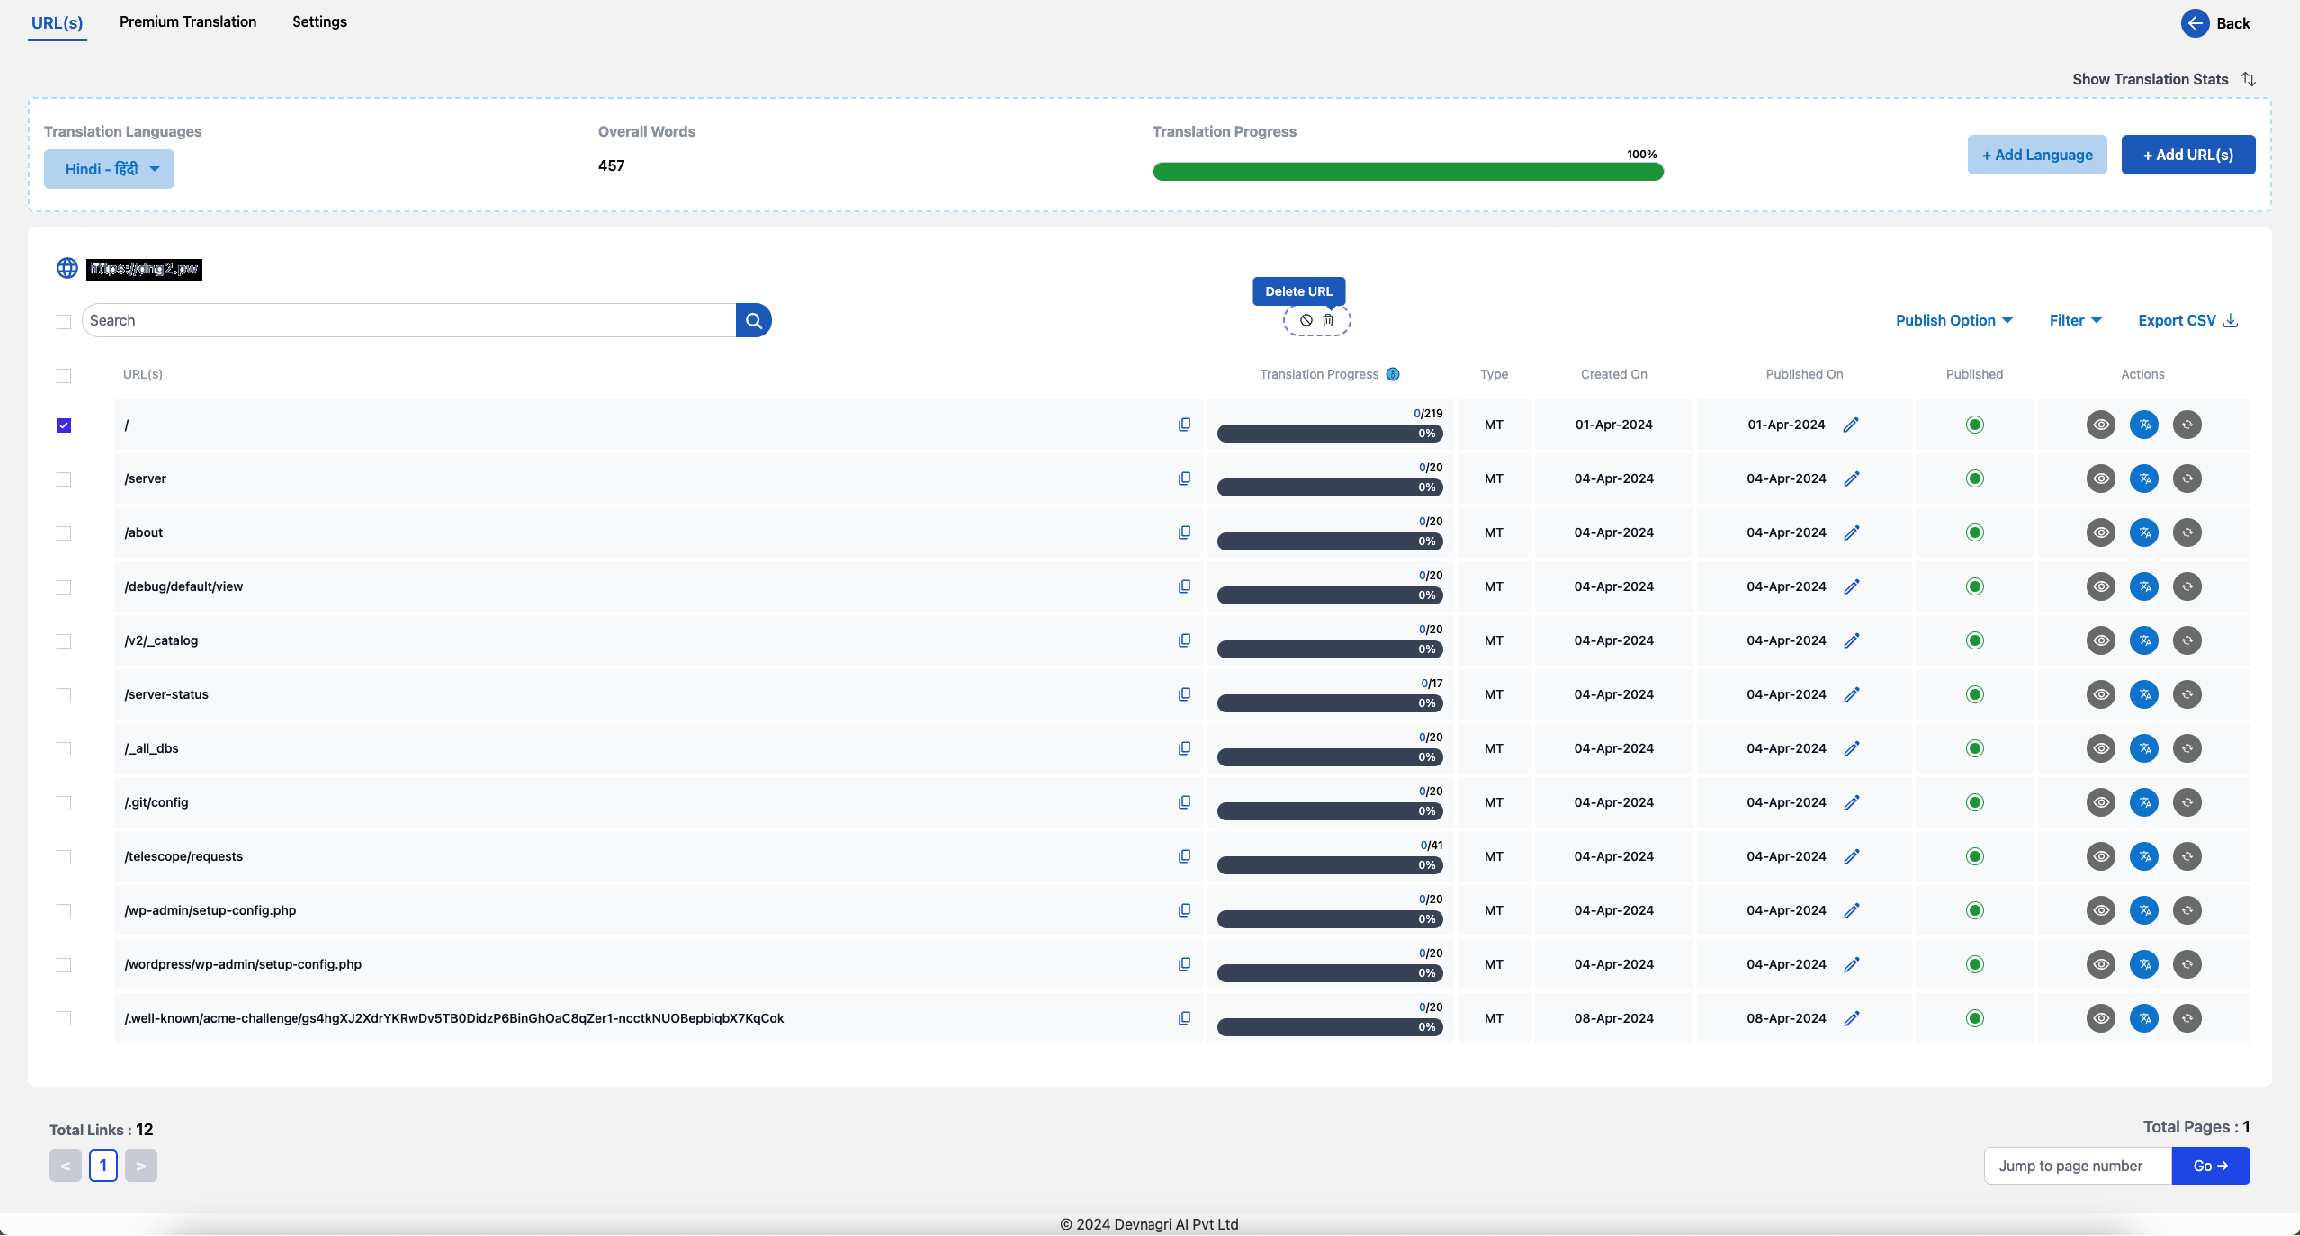
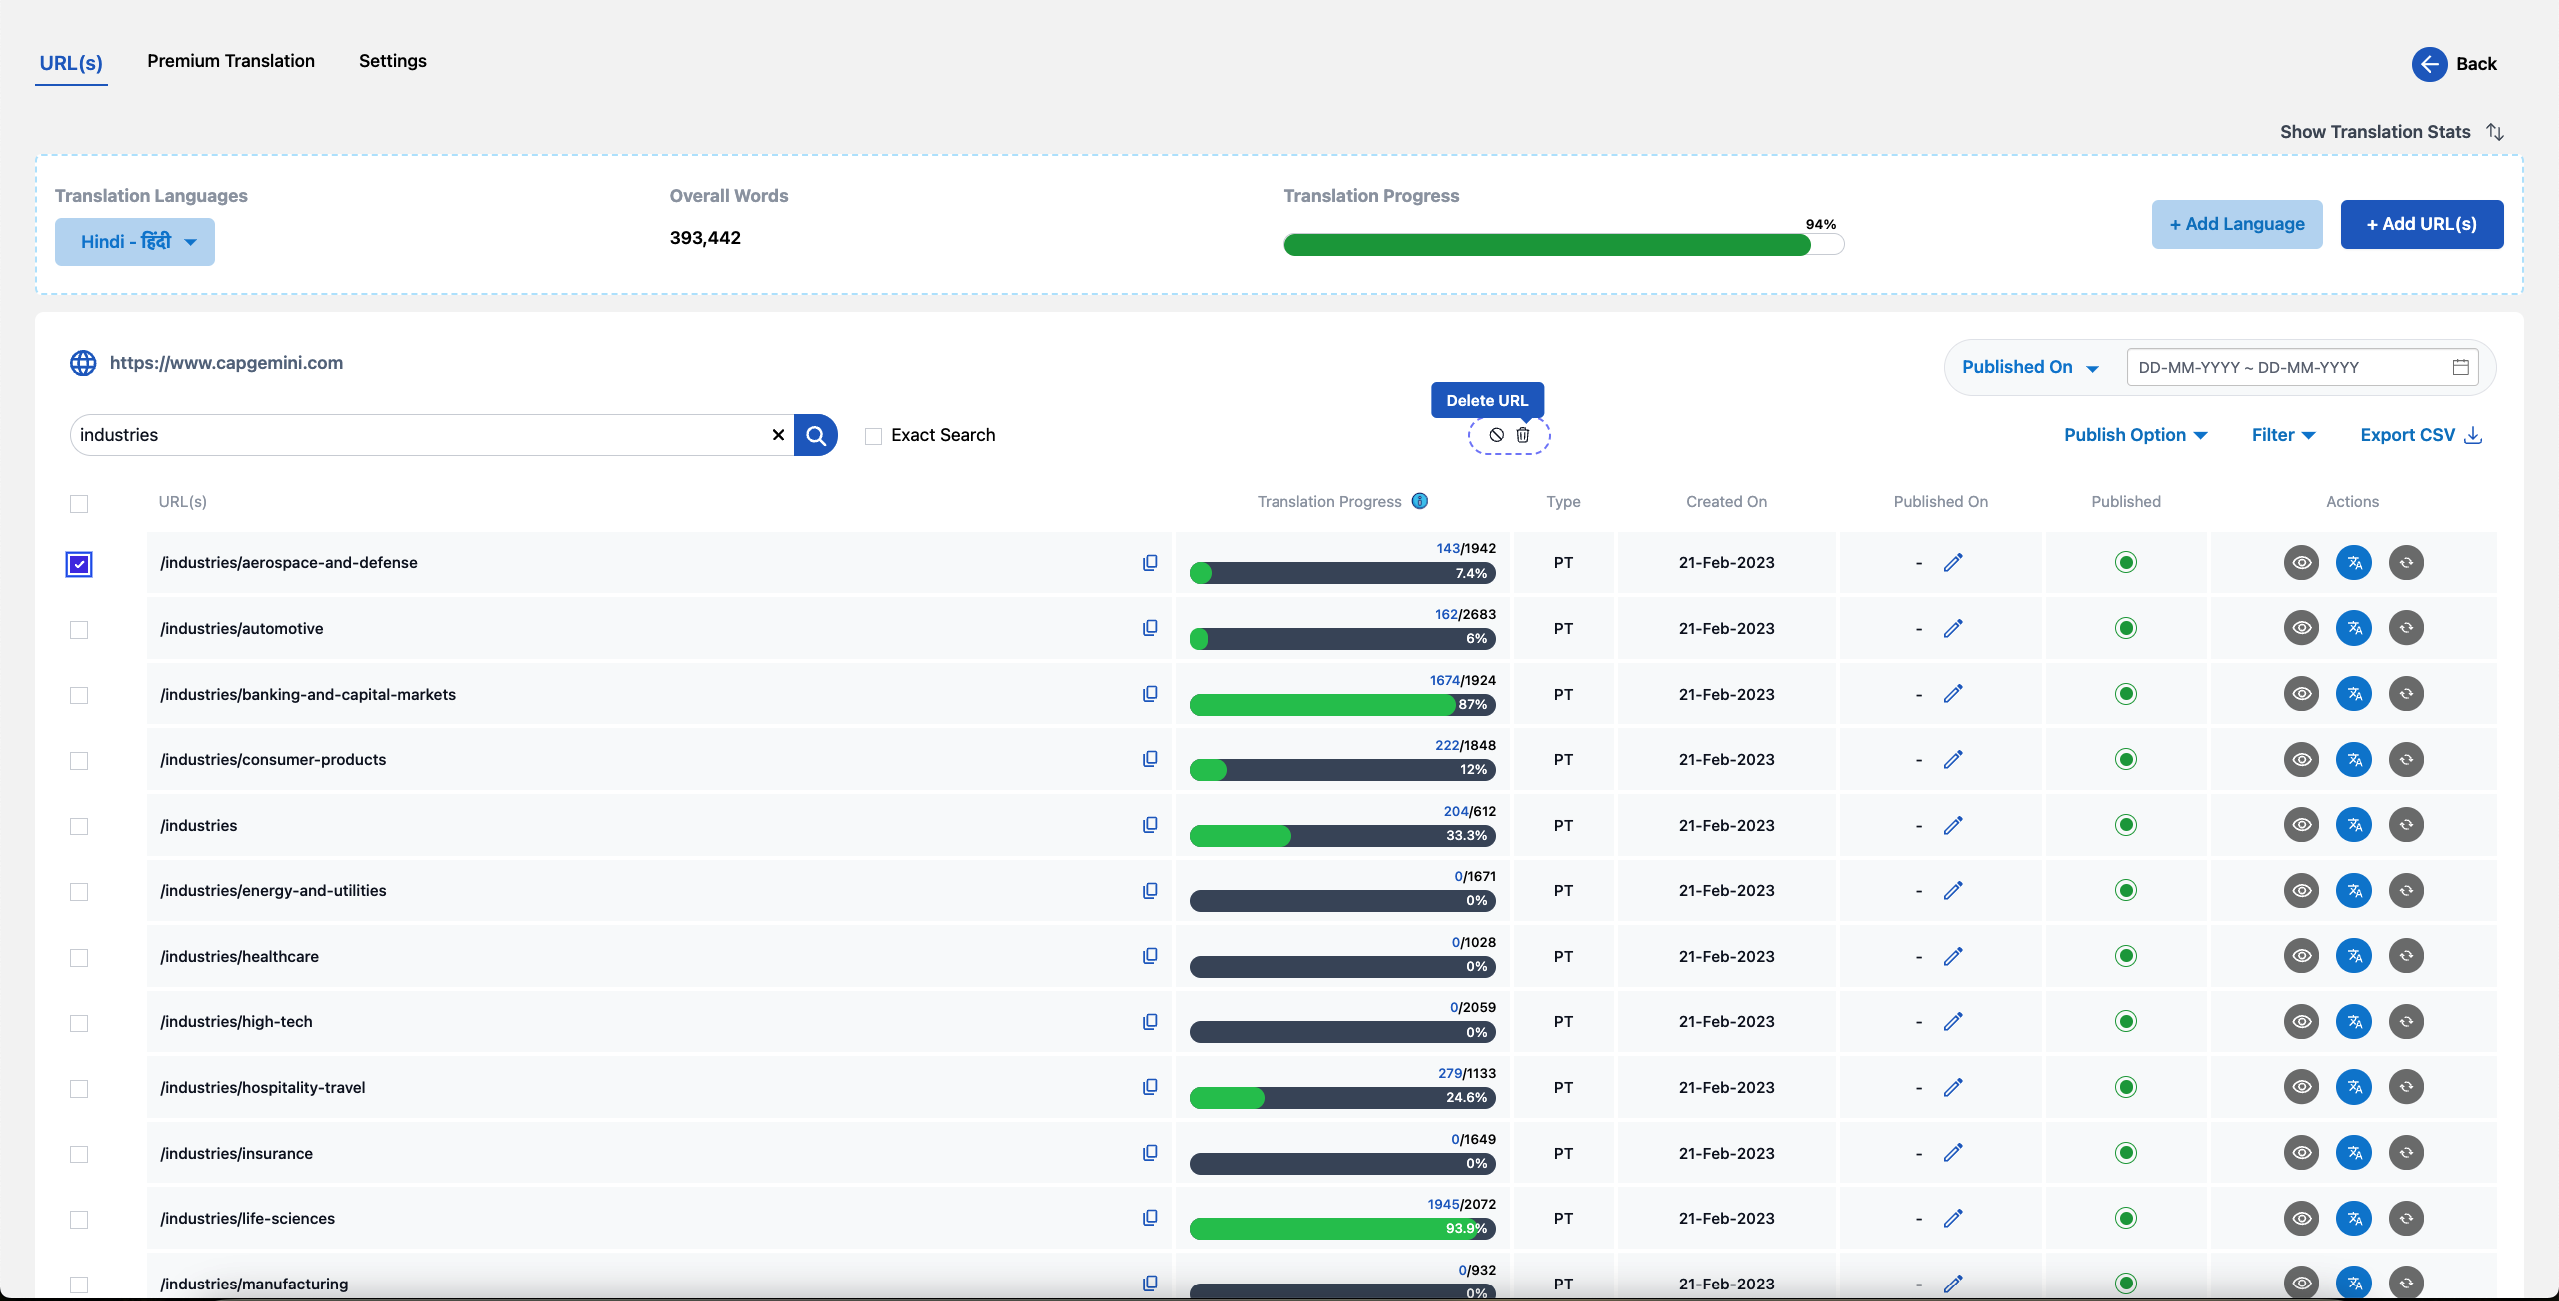
Updated-Images

diff --git a/guide/Dota_web.md b/guide/Dota_web.md
@@ -244,6 +244,8 @@ Users can utilize the search functionality to look up any specific URL. There is
 
 ![search](./images/DOTA_Web/Search.png)
 
+Users can utilize the date filters for filtering on basis of "Created On" or "Published On" dates mentioned corresponding to each URL.
+
 ## Change URL Status
 
 Users have the ability to publish or unpublish URLs using the options from the dropdown menu. Do note that selecting "publish in all languages" will publish the URL for all available languages in the order, while unpublishing can only be done on a language-by-language basis.
